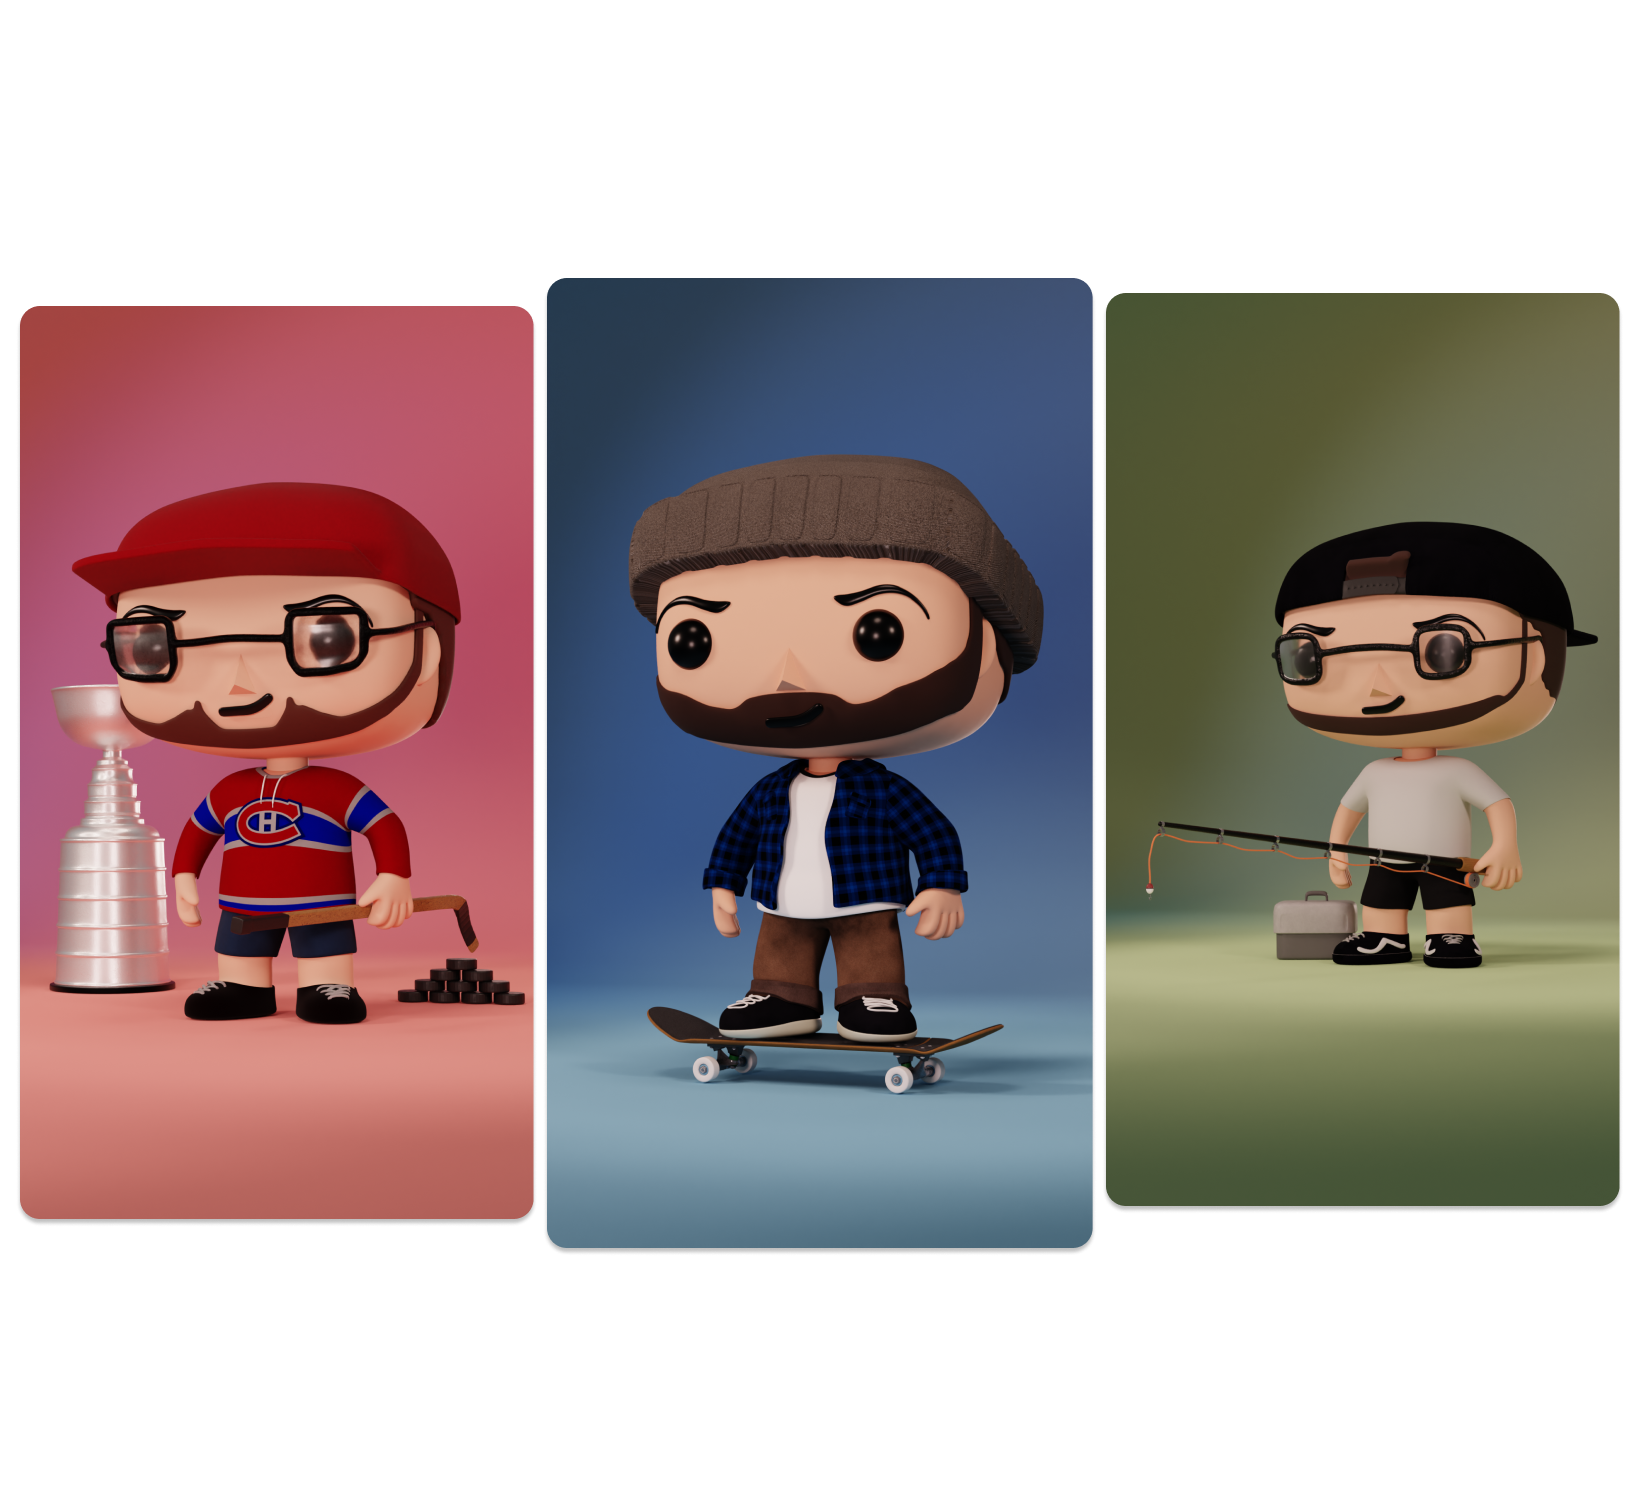
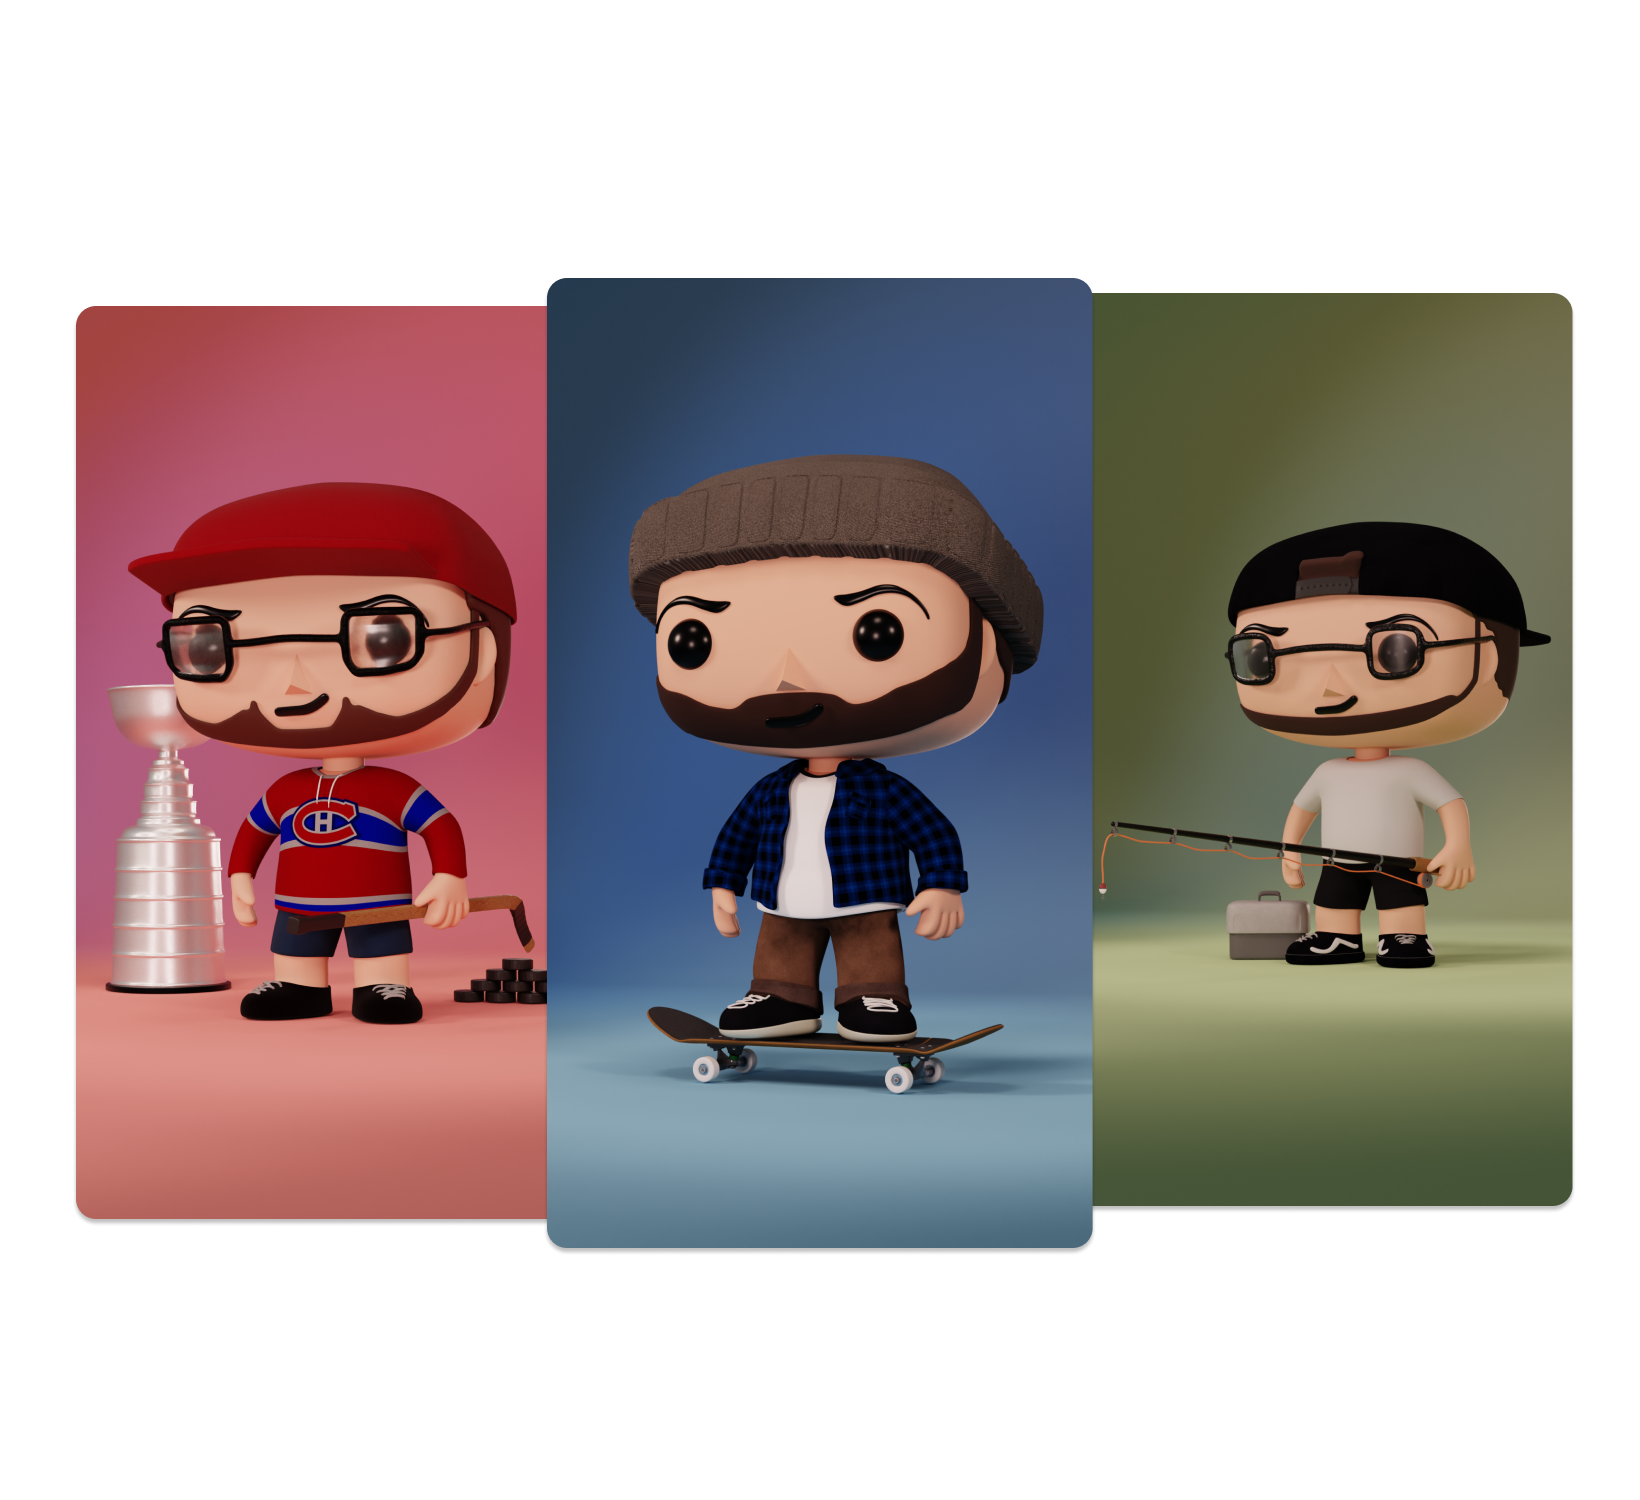
minor css tweaks, funkobuds image change to fit carousel size

Changed region(s): [[0.0, 0.184, 0.3421, 0.828], [0.653, 0.184, 0.9951, 0.828]]

diff --git a/css/components/button.css b/css/components/button.css
@@ -4,7 +4,8 @@
   border: none;
   cursor: pointer;
   transition: all 0.3s ease-in-out;
-  font-family: 'Raleway', sans-serif;
+  font-family: "Raleway", sans-serif;
+  background-color: #e9e9e9;
 }
 
 .button--large {
@@ -19,8 +20,9 @@
 
 .button:hover {
   transform: scale(1.05);
-  color: #FA8334;
+  color: #fa8334;
   font-weight: bold;
+  background-color: #d5d4d2;
 }
 
 .btn-cv {

diff --git a/css/components/footer.css b/css/components/footer.css
@@ -34,12 +34,13 @@
   align-items: center;
   position: relative;
   box-shadow: 0px 0px 8px #00505b;
+  gap: 4px;
 }
 
 .footer__contact-form input,
 .footer__contact-form textarea {
   width: 90%;
-  padding: 8px 8px;
+  padding: 12px;
   margin: 4px 0;
   border-radius: 8px;
   border: none;

diff --git a/css/components/section_personal_projects.css b/css/components/section_personal_projects.css
@@ -26,7 +26,7 @@
   position: relative;
   border-radius: 16px;
   rotate: 1deg;
-  z-index: 1;
+  z-index: 2;
   left: 0;
 }
 
@@ -57,7 +57,9 @@
   position: relative;
   border-radius: 16px;
   left: 0;
+  top: -12px;
   rotate: -1deg;
+  z-index: 1;
 }
 
 .project__img:nth-of-type(3):hover {

diff --git a/css/components/section_work.css b/css/components/section_work.css
@@ -20,6 +20,12 @@
 .work__img {
   max-width: 300px;
   border-radius: 16px;
+  transition: all 0.3s ease-in-out;
+}
+
+.work__img:hover {
+  transform: scale(1.025);
+  rotate: -1deg;
 }
 
 /* Extra large devices (large laptops and desktops, 1200px and up) */

diff --git a/css/components/swiper.css b/css/components/swiper.css
@@ -43,7 +43,8 @@
 .button-group {
   display: flex;
   align-self: center;
-  padding-bottom: 20px;
+  margin-bottom: 20px;
+  box-shadow: 2px 2px 8px #202020;
 }
 
 .button--blender-projects {

diff --git a/css/components/hero_banner.css b/css/components/hero_banner.css
@@ -183,6 +183,7 @@
     filter: grayscale(0%);
     transition: 0.3s;
     transform: scale(1.1);
+    rotate: -1deg;
   }
 
   .hero-banner__subtitle {
